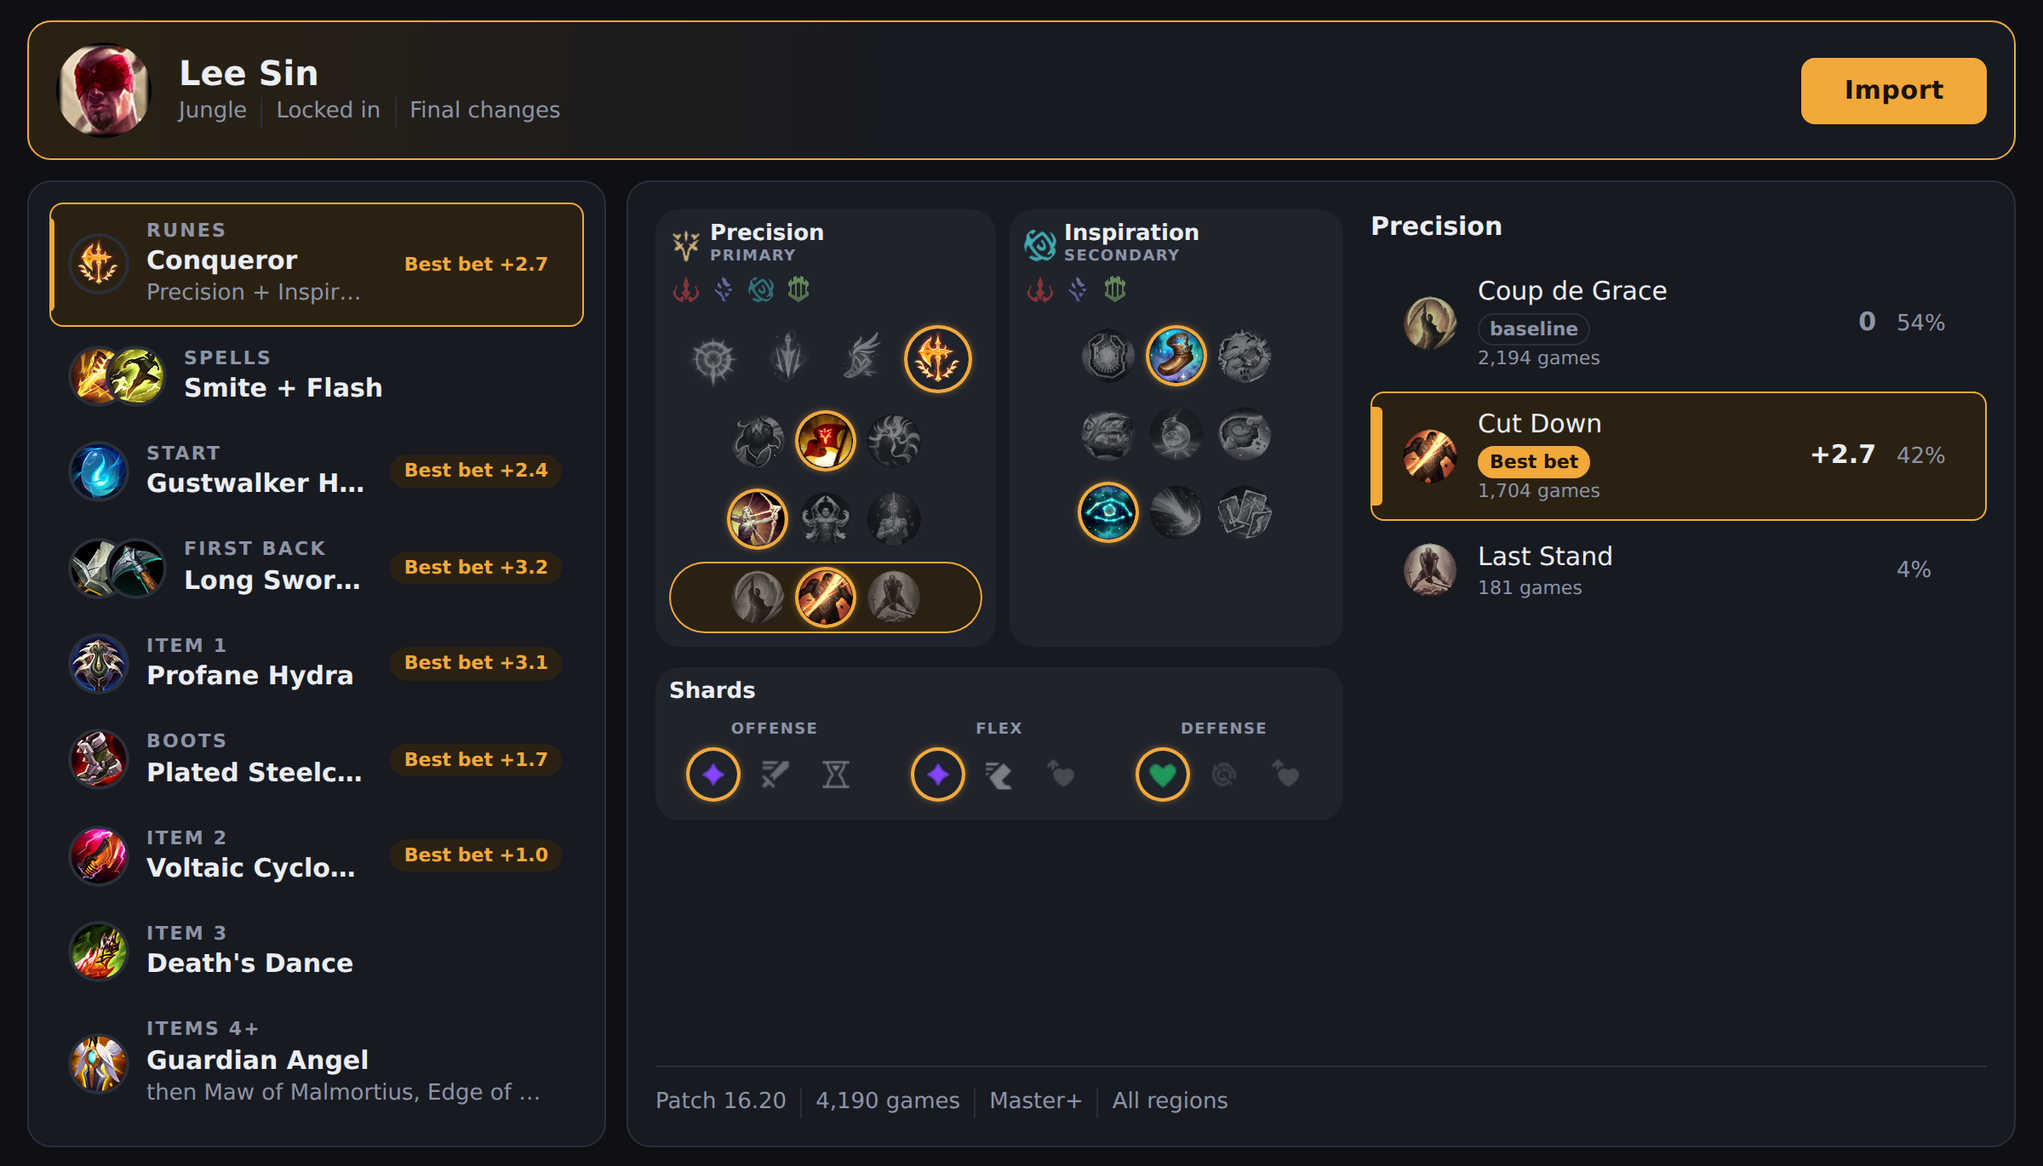
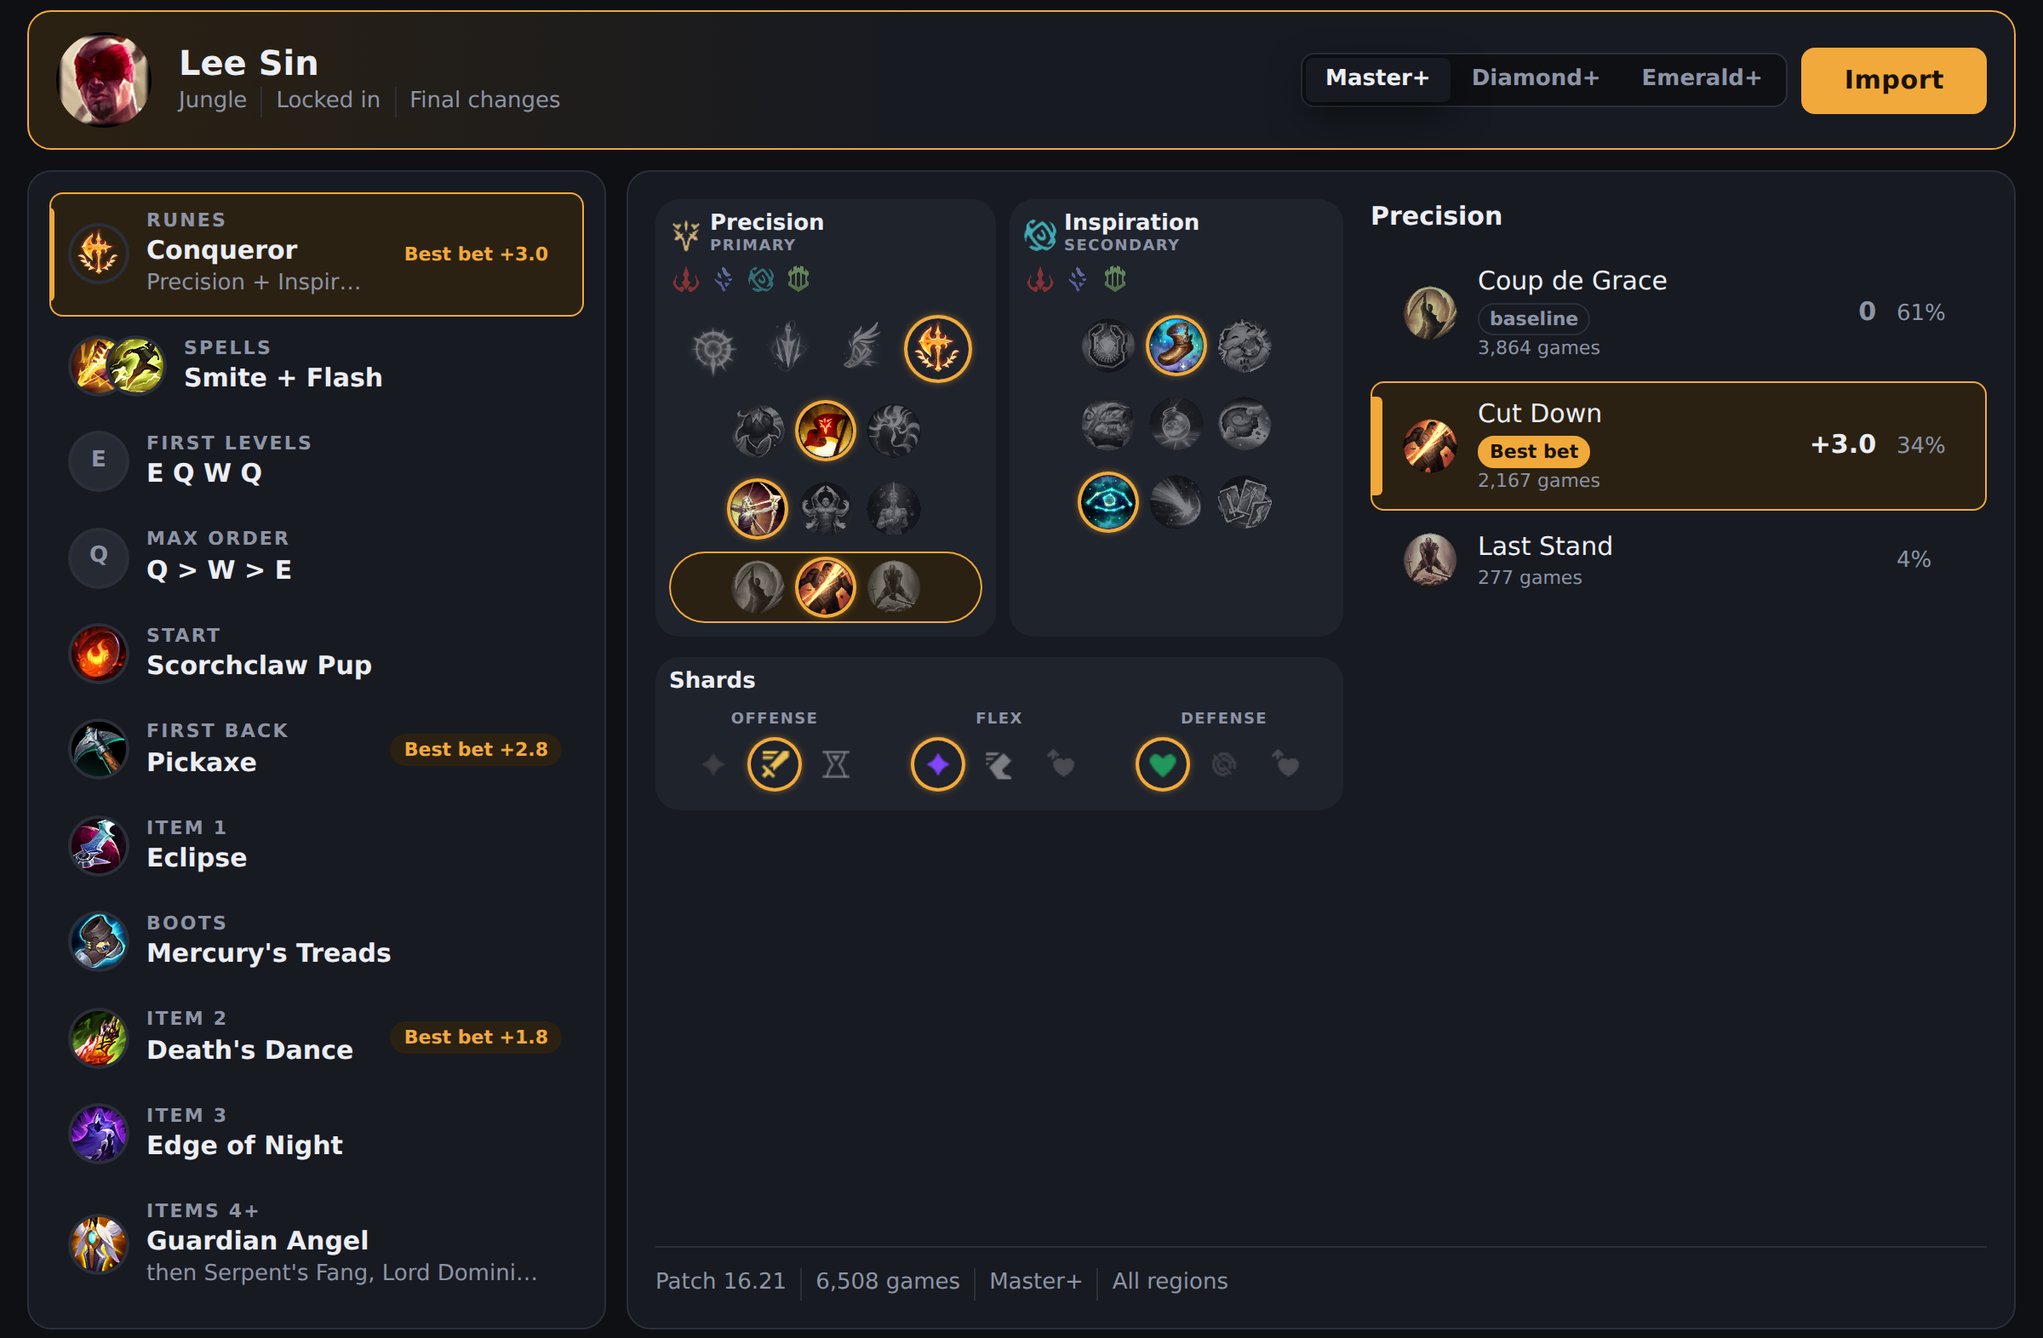
docs: the site on patch 16.21, with the skill order, brackets and lock-in import

diff --git a/site/public/index.html b/site/public/index.html
@@ -4,7 +4,7 @@
 <meta charset="utf-8">
 <meta name="viewport" content="width=device-width, initial-scale=1">
 <title>Stronk</title>
-<meta name="description" content="A free desktop app that imports runes, items and summoner spells in League of Legends champion select, ranked by win impact.">
+<meta name="description" content="A free desktop app that sets up your runes, summoner spells, skill order and items in League of Legends champion select, ranked by win impact.">
 <link rel="stylesheet" href="/style.css">
 </head>
 <body>
@@ -14,7 +14,7 @@
 </header>
 <main>
 <h1>Your build, set up before the game starts.</h1>
-<p class="lead">Stronk is a free desktop app for League of Legends. In champion select it shows the runes, summoner spells and items played on your champion and role, how much each one changes the chance of winning, and how sure that number is. One click puts the build into your client.</p>
+<p class="lead">Stronk is a free desktop app for League of Legends. In champion select it shows what's played on your champion and role (runes, summoner spells, skill order and items), how much each choice changes your chance to win, and how sure that number is. Your item set goes into the client when you lock in, and the rest is one click away.</p>
 
 <p class="status">Stronk is in development and not available for download yet. The source code is <a href="https://github.com/Lymero/stronk">on GitHub</a>.</p>
 
@@ -24,35 +24,37 @@
 <div class="frames">
 <picture class="runes">
 <source media="(max-width: 640px)" srcset="/img/runes-phone.png" width="420" height="757">
-<img src="/img/runes.png" width="1200" height="685" alt="Stronk during champion select for Lee Sin jungle, with the champion, rune and item icons from the game. On the left, the build it will import by name: Conqueror runes, Smite and Flash, a Gustwalker Hatchling start, Long Sword and Pickaxe on the first back, three items with Plated Steelcaps after the first, and the late items as one slot; Stronk's best bets are marked on the runes, the start, the first back, the boots and the first two items. On the right, the rune page drawn as in the client, with the third Precision row open as a list: Coup de Grace as the baseline at 0, Cut Down marked best bet at +2.7 wins per 100 games, Last Stand with too few games for a number.">
+<img src="/img/runes.png" width="1200" height="786" alt="Stronk during champion select for Lee Sin jungle, with the champion, rune and item icons from the game. On the left, the build it will import by name: Conqueror runes, Smite and Flash, E Q W Q for the first four levels and Q then W then E to max, a Scorchclaw Pup start, Pickaxe on the first back, Eclipse, Mercury's Treads after the first item, Death's Dance, Edge of Night, and Guardian Angel leading the late items. Stronk's best bets are marked on the runes (+3.0), the first back (+2.8) and item 2 (+1.8). On the right, the rune page drawn as in the client, with the third Precision row open as a list: Coup de Grace as the baseline at 0, in 61% of games; Cut Down marked best bet at +3.0 wins per 100 games, in 34%; Last Stand in 4%.">
 </picture>
 <picture class="items">
-<source media="(max-width: 640px)" srcset="/img/items-phone.png" width="420" height="532">
-<img src="/img/items.png" width="1200" height="685" loading="lazy" alt="The same build with its first item slot open: Eclipse as the baseline at 0, played in 60% of 2,512 games; Profane Hydra marked best bet at +3.1 wins per 100 games, in 26% of games; Voltaic Cyclosword, already in item 2; Bastionbreaker; and 12 more rarely played items behind a button.">
+<source media="(max-width: 640px)" srcset="/img/items-phone.png" width="420" height="567">
+<img src="/img/items.png" width="1200" height="786" loading="lazy" alt="The same build with its second item slot open: Black Cleaver as the baseline at 0, in 46% of games; Voltaic Cyclosword at −1.6 and Sundered Sky at −1.9 wins per 100 games; Death's Dance marked best bet at +1.8, in 9% of games (523 games); Bastionbreaker; and 22 more rarely played items behind a button.">
 </picture>
 </div>
 <figcaption>
 <span class="switch"><label for="shot-runes">Runes</label><label for="shot-items">Items</label></span>
-<span class="caption runes">The rune page, drawn as in the client: Stronk takes Cut Down over Coup de Grace.</span>
-<span class="caption items">An item slot, every option against the most played one: Profane Hydra over Eclipse.</span>
-<span class="source">Lee Sin jungle on patch 16.20, from 4,190 Master+ games.</span>
+<span class="caption runes">The rune page, drawn like in the client. Stronk takes Cut Down over Coup de Grace.</span>
+<span class="caption items">An item slot, every option against the most played one. Death's Dance comes out ahead of Black Cleaver.</span>
+<span class="source">Lee Sin jungle on patch 16.21, from 6,508 Master+ games.</span>
 </figcaption>
 </figure>
 
 <h2>What it does</h2>
 <ul>
-<li>Follows champion select as you hover and lock in, and shows the build for your champion and role from high-elo ranked games on the current patch.</li>
-<li>Shows the build it will import at a glance, by name: the rune page, the summoner spells, the starting items, the first components, the boots and each item slot. Open any slot to see every option with its share of games, the games behind it, and its <a href="/method">win impact</a> against the most played option. The rune page is drawn as in the client.</li>
-<li>Imports its best bet: the option that comes out ahead of the most played one once each number is weighed by how sure it is, so a rarely played option with a lucky number doesn't win. It says "clearly better" only when the difference holds up after correcting for chance across the whole patch; anything else ahead is marked "best bet", and options with too few games get no number at all.</li>
-<li>Lets you pick any other option for any slot, and build your rune page rune by rune. Your picks are kept until the patch changes.</li>
-<li>Imports with one click, or on lock-in if you turn that on: a rune page and an item set named "Stronk: champion role", on top of the shop's list with each slot's pick and its alternatives, and your summoner spells, with Flash kept on the key you use.</li>
+<li>Follows champion select while you hover and lock in, and shows the build for your champion and role from ranked games on the current patch. You choose whose games: Master+, Diamond+ or Emerald+, right next to the Import button.</li>
+<li>Shows the whole build at a glance, by name: runes, summoner spells, skill order (your first four levels and what to max), starting items, first back, boots and every item slot. Open any of them to see every option, how often it's played, how many games are behind it, and its <a href="/method">win impact</a> against the most played one. The rune page is drawn like in the client.</li>
+<li>Picks boots for the team you're up against: once three enemies have picked, it goes with what does best against their kind of damage.</li>
+<li>Goes with its best bet: the option that comes out ahead of the most played one once each number is weighed by how sure it is, so a rarely played option with a lucky number doesn't win. It only says "clearly better" when the difference still holds after correcting for chance across the whole patch, and options with too few games don't get a number at all.</li>
+<li>Lets you pick anything else, slot by slot, and build your rune page rune by rune. Your picks stay until the next patch.</li>
+<li>Puts the item set in when you lock in, named "Stronk: champion role" and on top of your shop, with each slot's pick and its alternatives, and keeps it up to date until the game starts (your boots change as the enemies pick). The client can't take a skill order, so it's written on the item set's first block, where you'll see it in the shop.</li>
+<li>Puts your runes and summoner spells in with one click, or on lock-in too if you turn that on. Flash stays on the key you use.</li>
 </ul>
 
 <h2>What it doesn't do</h2>
 <ul>
-<li>It never edits or deletes your own rune pages or item sets. When all your rune pages are in use, it tells you instead of overwriting one. Your item sets are backed up before every import and can be restored from the settings.</li>
-<li>No in-game overlay and no information during the game.</li>
-<li>Nothing about other players: no names, ranks or match histories of teammates or opponents.</li>
+<li>It never edits or deletes your own rune pages or item sets. If all your rune pages are in use, it tells you instead of overwriting one. Your item sets are backed up before every write, and you can restore them from the settings.</li>
+<li>No in-game overlay, and nothing during the game.</li>
+<li>Nothing about other players: no names, ranks or match histories of teammates or opponents. All it reads about them is which champions they picked.</li>
 <li>No account, no ads, no telemetry.</li>
 </ul>
 </main>

diff --git a/site/public/method.html b/site/public/method.html
@@ -22,7 +22,7 @@
 <h2>How</h2>
 <ol>
 <li><strong>Win probability.</strong> A model predicts each team's chance of winning at every minute from the game state: gold, experience, kills, towers, dragons, barons and the time. It is checked for calibration: games given 60% are won about 60% of the time.</li>
-<li><strong>Decision points.</strong> Each choice is measured from the moment it is made: champion select for runes and spells, and the start of each item slot for items, the fourth item and every later one counted together as the late items. A cheaper item that completes earlier gets credit for it, and games that end before an item is finished still count.</li>
+<li><strong>Decision points.</strong> Each choice is measured from the moment it is made: champion select for runes and spells, and the start of each item slot for items, the fourth item and every later one counted together as the late items. A cheaper item that completes earlier gets credit for it, and games that end before an item is finished still count. The skill order is two choices: the first four levels, a plan made before anything happens, and what you max, read at your eleventh level. Read any later, it would mostly say who was winning, since levels come faster when you win fights.</li>
 <li><strong>Win probability added.</strong> For each decision, the score is the final result minus the win probability at that moment. An option's win impact is its average score minus that of the alternatives chosen at the same point, for the same champion and role.</li>
 <li><strong>Comparable situations only.</strong> A second model estimates how likely each option is in each situation. Options that are almost never chosen where the others are get no number ("too few games") rather than a misleading one.</li>
 <li><strong>Uncertainty.</strong> Small samples are pulled toward the average of similar champions, intervals come from resampling whole games, and every option is compared with the most played one with a false discovery correction across the whole patch. Only differences that survive it are called clear.</li>
@@ -34,7 +34,7 @@
 <p>The full method, its known limits and its tests are public: <a href="https://github.com/Lymero/stronk/blob/main/docs/wpa-method.md">docs/wpa-method.md</a>.</p>
 
 <h2>The data</h2>
-<p>Match data comes from Riot Games' official API: ranked solo games of high-elo players on the current patch. Only aggregate statistics per champion, role and patch are published, as signed files the app verifies before using.</p>
+<p>Match data comes from Riot Games' official API: ranked solo games on the current patch, in three brackets you choose from in the app: Master+, Diamond+ and Emerald+, each including the ranks above it. Only aggregate statistics per champion, role and patch are published, as signed files the app verifies before using.</p>
 </main>
 <footer>
 <nav><a href="/method">Method</a><a href="/privacy">Privacy</a><a href="/terms">Terms</a><a href="https://github.com/Lymero/stronk">Source code</a><a href="mailto:christopher@christophercastel.com">Contact</a></nav>

diff --git a/app/ui/e2e/site.spec.ts b/app/ui/e2e/site.spec.ts
@@ -5,7 +5,7 @@
 // on the row of Stronk's best bet and an item slot where it takes one, each as two pictures at the
 // size the site shows them, so their text stays readable: the desktop app at 1200 px for wide
 // screens, and the open slot in the app's narrow layout for phones. The app's wordmark, legend
-// and hint are left out: the site says what they say.
+// and hint, and the import's status line, are left out: the site says what they say.
 
 import { resolve } from "node:path";
 import { expect, type Page, test } from "@playwright/test";
@@ -21,10 +21,10 @@ const VIEWS: Record<string, (page: Page) => Promise<void>> = {
     await page.getByLabel("Rune page").getByRole("button", { name: "Cut Down" }).click();
     await expect(page.getByRole("radio", { name: /^Cut Down,/ })).toContainText("Best bet");
   },
-  // Item 1, where Stronk takes Profane Hydra over Eclipse.
+  // Item 2, where Stronk takes Death's Dance.
   items: async (page) => {
-    await page.getByRole("tab", { name: /^Item 1:/ }).click();
-    await expect(page.getByRole("radio", { name: /^Profane Hydra,/ })).toContainText("Best bet");
+    await page.getByRole("tab", { name: /^Item 2:/ }).click();
+    await expect(page.getByRole("radio", { name: /^Death's Dance,/ })).toContainText("Best bet");
   },
 };
 
@@ -41,9 +41,12 @@ async function open(page: Page, view: string): Promise<void> {
   expect((await page.request.post("/core/mock/step")).ok()).toBe(true);
   await expect(page.getByRole("heading", { name: "Lee Sin" })).toBeVisible();
   await VIEWS[view]?.(page);
-  // Every icon on screen loaded, none a stand-in letter.
-  await expect(page.locator("main .stand-in")).toHaveCount(0);
-  await page.addStyleTag({ content: "main > header, .legend, .how { display: none !important; }" });
+  // Every icon on screen loaded, none a stand-in letter, but the skill order's key tiles, which
+  // have no icon yet (ADR-085).
+  await expect(page.locator("main .stand-in:not(#slot-tab-skill_levels *, #slot-tab-skill_max *)")).toHaveCount(0);
+  // The import's status line too: the site's text says what lock-in imports, and the wide
+  // runes picture stays under the 512 KB file limit without it.
+  await page.addStyleTag({ content: "main > header, .legend, .how, .plan > .result { display: none !important; }" });
   // No hover highlight left by the clicks.
   await page.mouse.move(0, 0);
 }
@@ -61,10 +64,10 @@ for (const view of Object.keys(VIEWS)) {
       const top = await page.getByLabel("Champion select").boundingBox();
       const bottom = await page.getByRole("region", { name: "Build" }).boundingBox();
       if (!top || !bottom) throw new Error("nothing to capture");
-      const y = top.y - 12;
+      const y = top.y - 6;
       await page.screenshot({
         path: resolve(IMG, `${view}.png`),
-        clip: { x: 0, y, width: 1200, height: bottom.y + bottom.height + 12 - y },
+        clip: { x: 0, y, width: 1200, height: bottom.y + bottom.height + 6 - y },
       });
       await done(page);
     });

diff --git a/site/public/terms.html b/site/public/terms.html
@@ -23,7 +23,7 @@
 <p>Stronk is provided as is, without warranty of any kind. The statistics are estimates from past games; they can be wrong, and they never guarantee a result. You decide what to play.</p>
 
 <h2>What the app changes in your client</h2>
-<p>Stronk writes its own rune page and item set, named "Stronk: champion role", and your summoner spell selection, only when you import or when you turn on import at lock-in. It never edits or deletes rune pages or item sets you made, and backs up your item sets before writing. A rune page or item set whose name starts with "Stronk: " is treated as Stronk's.</p>
+<p>Stronk writes its own item set, named "Stronk: champion role", when you lock in (you can turn this off in the settings), and again until the game starts if your build changes. It writes its own rune page, with the same name, and your summoner spell selection only when you import, or on lock-in if you turn that on. It never edits or deletes rune pages or item sets you made, and backs up your item sets before writing. A rune page or item set whose name starts with "Stronk: " is treated as Stronk's.</p>
 
 <h2>Riot Games</h2>
 <p>Stronk is a fan project and isn't endorsed by Riot Games. Your use of League of Legends remains subject to Riot Games' own terms. Stronk uses only Riot Games' official API for match data and the League client's local interface on your own computer.</p>

diff --git a/tools/lcu_mock/site_png.py b/tools/lcu_mock/site_png.py
@@ -1,0 +1,34 @@
+"""The site's screenshots recompressed losslessly (`just site-shot`): the same pixels in fewer
+bytes, so each stays under the repository's 512 KB file limit (`check-added-large-files`)."""
+
+from __future__ import annotations
+
+import sys
+from pathlib import Path
+
+from PIL import Image
+
+LIMIT = 512 * 1024
+
+
+def recompress(path: Path) -> int:
+    """Saves `path` again at the highest PNG compression; returns its new size in bytes."""
+    with Image.open(path) as image:
+        image.load()
+        image.save(path, optimize=True, compress_level=9)
+    return path.stat().st_size
+
+
+def main(paths: list[str]) -> int:
+    too_big = 0
+    for name in paths:
+        size = recompress(Path(name))
+        print(f"{name}: {size // 1024} KB")
+        if size > LIMIT:
+            print(f"{name} is over {LIMIT // 1024} KB: crop it or show less", file=sys.stderr)
+            too_big += 1
+    return 1 if too_big else 0
+
+
+if __name__ == "__main__":
+    sys.exit(main(sys.argv[1:]))

diff --git a/NOTES.md b/NOTES.md
@@ -248,3 +248,5 @@ Session log. Append two lines per session: what landed, what's still open. Newes
   Open: rebuild the Windows app, then `just data-to-windows`; check the Emerald+ first-levels claims against 16.22 (lane matchups may drive level-1 choices); ability icons from the client instead of lettered tiles.
 - 2026-11-03: web build viewer (ADR-086): `stronk-web` (WebAssembly: signature check and `build.plan`), `HttpBackend`, a role-and-champion picker, `viewer.html`; names and icons from CommunityDragon through `service::game_data` (moved from `lcu`); `just viewer` on `runs/real/data`, Playwright on the fixture data with CommunityDragon stubbed.
   Open: host it with the site once the data is on R2 (`R2Publisher`); enemy picks for boots in the viewer; the core's size (1.5 MB, `wasm-opt` could trim it). `just viewer` on Windows is parsed by PowerShell but not yet run there.
+- 2026-11-03: the site on 16.21: new screenshots (`just site-shot`, the items view on item 2, skill rows shown, the import line left out, PNGs recompressed losslessly under 512 KB by `tools/lcu_mock/site_png.py`); home page text for the skill order, brackets, boots against the enemy team and the item set on lock-in; terms and method brought up to date.
+  Open: the wide runes picture is at 511 KB: a taller sheet will need a crop or less in it.
